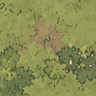
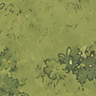
Italia field calmed: the painting's boulders and plants painted out
The open-field ground is cut from art/fields/italia_calm.png, the supplied
meadow with its boulders, small rocks, ferns, dark clumps, clover rosettes,
pale moss and earth patches masked by colour and size thresholds and filled
from the painting's own grass by G'MIC patch-based inpainting
(tools/fieldcalm.py --level strong), then sliced as before. Tufts, tiny
flowers and the tonal mottling stay; nothing large distracts from the
troops. The fill is not deterministic, so the calmed picture ships beside
the source. Docs record the route and the generated routes tried and
rejected (#64).

diff --git a/tools/fieldcalm.py b/tools/fieldcalm.py
@@ -1,0 +1,76 @@
+#!/usr/bin/env python3
+"""Calm a supplied field painting: mask its clutter, fill the mask from the
+painting's own texture, and cut the 6x5 field cells with siegeslice.
+
+    python3 tools/fieldcalm.py <painting.png> <out-dir> <prefix> [--level light|medium|strong] [--fill patchmatch|lama] [--keep-mask mask.png]
+
+Levels (what is repainted):
+  light   grey boulders and small rocks, dark clumps (ferns, dense clover)
+  medium  light + brown earth patches
+  strong  medium + mid-dark leaf clusters and pale yellow-green moss patches
+The mask is colour/size thresholds (OpenCV); --keep-mask writes it out so a
+hand-edited copy can be passed back with --mask. Fill: G'MIC inpaint_matchpatch
+(native resolution) or LaMa on CPU (run at 1024 px). Writes <out-dir>/mask.png,
+<out-dir>/inpainted.png and the cells <out-dir>/cells/<prefix>_<x>_<y>.png.
+Needs: gmic, python3-opencv, python3-numpy (apt); for --fill lama: torch (cpu),
+torchvision, simple-lama-inpainting (pip --user).
+Neither fill is deterministic (patch matching is randomly initialised, LaMa is
+run at 1024 px), so the inpainted painting that shipped is kept beside the
+source; re-running gives an equivalent but not identical field.
+"""
+import sys, os, subprocess, argparse
+import cv2, numpy as np
+
+ap = argparse.ArgumentParser()
+ap.add_argument("painting"); ap.add_argument("out"); ap.add_argument("prefix")
+ap.add_argument("--level", default="medium", choices=["light", "medium", "strong"])
+ap.add_argument("--fill", default="patchmatch", choices=["patchmatch", "lama"])
+ap.add_argument("--mask", help="use this mask instead of building one (white = repaint)")
+ap.add_argument("--dilate", type=int, default=15)
+a = ap.parse_args()
+os.makedirs(a.out + "/cells", exist_ok=True)
+src = cv2.imread(a.painting, cv2.IMREAD_UNCHANGED)
+if src.shape[2] == 3: src = np.dstack([src, np.full(src.shape[:2], 255, np.uint8)])
+bgr, alpha = src[:, :, :3], src[:, :, 3]
+K = lambda n: cv2.getStructuringElement(cv2.MORPH_ELLIPSE, (n, n))
+
+def blobs(mask, min_area):
+    n, lab, stats, _ = cv2.connectedComponentsWithStats(mask.astype(np.uint8), 8); keep = np.zeros_like(mask)
+    for i in range(1, n):
+        if stats[i, cv2.CC_STAT_AREA] >= min_area: keep |= (lab == i)
+    return keep
+
+if a.mask:
+    mask = cv2.imread(a.mask, cv2.IMREAD_GRAYSCALE)
+else:
+    hsv = cv2.cvtColor(bgr, cv2.COLOR_BGR2HSV); H, S, V = [hsv[:, :, i].astype(int) for i in range(3)]
+    content = (alpha > 16) & ~((bgr[:, :, 0] > 235) & (bgr[:, :, 1] > 235) & (bgr[:, :, 2] > 235))
+    rocks = blobs(content & (S < 0.20 * 255) & (V > 0.42 * 255), 120)
+    dark = blobs(content & (V < 0.40 * 255), 120)
+    m = rocks | dark
+    if a.level in ("medium", "strong"):
+        m |= blobs(content & (H >= 8) & (H <= 30) & (S > 0.25 * 255) & (V > 0.35 * 255) & (V < 0.75 * 255), 400)
+    if a.level == "strong":
+        leaf = cv2.morphologyEx((content & (V < 0.50 * 255) & (S > 0.30 * 255)).astype(np.uint8), cv2.MORPH_OPEN, K(7)).astype(bool)
+        moss = cv2.morphologyEx((content & (H >= 28) & (H <= 42) & (S > 0.35 * 255) & (V > 0.60 * 255)).astype(np.uint8), cv2.MORPH_OPEN, K(7)).astype(bool)
+        m |= blobs(leaf, 250) | blobs(moss, 400)
+    mask = cv2.dilate(m.astype(np.uint8) * 255, K(a.dilate)) & (content.astype(np.uint8) * 255)
+cv2.imwrite(a.out + "/mask.png", mask)
+print(f"mask: {(mask > 0).sum()} px repainted ({(mask > 0).sum() / max(1, (alpha > 16).sum()) * 100:.1f}% of the painting)")
+
+if a.fill == "patchmatch":
+    rgb_p = a.out + "/inpainted_rgb.png"
+    r = subprocess.run(["gmic", a.painting, "-channels[0]", "0,2", a.out + "/mask.png", "-inpaint_matchpatch[0]", "[1],0,15,10,7,1", "-keep[0]", "-o", rgb_p], capture_output=True, text=True)
+    if r.returncode: sys.exit("gmic failed: " + r.stderr[-400:])
+    rgb = cv2.imread(rgb_p); out = np.dstack([rgb, alpha])
+else:
+    from PIL import Image
+    from simple_lama_inpainting import SimpleLama
+    S = 1024
+    rgb_s = cv2.resize(cv2.cvtColor(bgr, cv2.COLOR_BGR2RGB), (S, S), interpolation=cv2.INTER_AREA)
+    m_s = cv2.resize(mask, (S, S), interpolation=cv2.INTER_NEAREST)
+    res = np.array(SimpleLama()(Image.fromarray(rgb_s), Image.fromarray(m_s)).convert("RGB"))[:S, :S]
+    out = np.dstack([cv2.cvtColor(res, cv2.COLOR_RGB2BGR), cv2.resize(alpha, (S, S), interpolation=cv2.INTER_AREA)])
+cv2.imwrite(a.out + "/inpainted.png", out)
+r = subprocess.run([sys.executable, "tools/siegeslice.py", a.out + "/inpainted.png", a.out + "/cells", "--field", a.prefix], capture_output=True, text=True)
+print(r.stdout.strip().splitlines()[-1] if r.stdout.strip() else r.stderr[-300:])

diff --git a/docs/ART-PIPELINE.md b/docs/ART-PIPELINE.md
@@ -276,13 +276,25 @@ generated from.
 - **Field grid** (`art/combat/field/<zone>_<x>_<y>.png`, 30 cells at 96) —
   the ground of an open fight, one picture per continent (a zone's
   `field_grid`, REQ-165e). Italia's has come from a supplied 1254 x 1254
-  picture kept at `art/fields/italia.png`, a light meadow painted on white:
-  `tools/siegeslice.py --field` has taken the largest 6:5 rectangle of
-  content centred in it (726 x 605, the white kept out), scaled it to
-  576 x 480 with Lanczos and cut the thirty cells. The ground has been kept
-  lighter and plainer than the troops, which have to read against it. The
-  other three continents have no field picture yet and draw the hero's map
-  tile.
+  picture kept at `art/fields/italia.png`, a light meadow painted on white,
+  calmed first by `tools/fieldcalm.py --level strong` into
+  `art/fields/italia_calm.png`: colour and size thresholds have masked the
+  boulders, small rocks, ferns, dark clumps, clover rosettes, pale moss and
+  brown earth patches, and G'MIC's patch-based inpainting has filled them
+  from the painting's own grass, so the tufts, tiny flowers and tonal
+  mottling stay and nothing large distracts from the troops. That is
+  preparation of a supplied source, not post-processing of generated
+  terrain; the fill is not deterministic, so the calmed picture that shipped
+  is kept beside the source. `tools/siegeslice.py --field` has then taken
+  the largest 6:5 rectangle of content centred in it (726 x 605, the white
+  kept out), scaled it to 576 x 480 with Lanczos and cut the thirty cells.
+  Generating this ground has been tried and rejected (2026-09-27): Retro
+  Diffusion's tile styles have tiled seamlessly but drawn flat game-green,
+  its RD Pro top-down style has drawn the look but stops at 256 and its
+  joins have not blended, and variation tiles and pasted objects have read
+  as squares and stickers; the painting route has been the only one that
+  kept the look. The other three continents have no field picture yet and
+  draw the hero's map tile.
 - **The title screen** (`art/ui/splash_title.png`, 256x164) — the eagle has
   been generated (screen route, no border); the words have been drawn by
   `tools/splashtitle.py` from C059 Bold, gold with dark shading, title above

diff --git a/docs/ART-SPEC.md b/docs/ART-SPEC.md
@@ -79,8 +79,9 @@ The castle battlefield has been the one exception: 36 cells at 32 x 32 in
 open field has been a picture of its own per continent, the largest 6:5
 rectangle of content centred in it scaled to 576 x 480 and cut into 30 cells
 of 96 x 96 in `art/combat/field/` (PACK-FORMAT, "Field grid"); Italia's has
-shipped, from `art/fields/italia.png`, a light meadow so the troops stand
-out on it.
+shipped from `art/fields/italia_calm.png`, the supplied light meadow
+`art/fields/italia.png` with its boulders, ferns, clover and earth patches
+painted out (`tools/fieldcalm.py`), so the troops stand out on it.
 
 These have been one class on purpose: the same troop PNG has been drawn into a
 combat cell, an army-roster row, a location screen and the victory cartoon.

diff --git a/docs/OPENBOUNTY-SPEC.md b/docs/OPENBOUNTY-SPEC.md
@@ -1046,7 +1046,9 @@ flagged (§38).
   has kept the siege grid, and a zone with no grid the ground of REQ-165d.
   `glory-of-rome` has shipped Italia's, thirty 96 px cells cut from the
   largest centred 6:5 rectangle of content in one picture, scaled to
-  576 × 480 (`art/fields/italia.png`, `tools/siegeslice.py --field`);
+  576 × 480 (`art/fields/italia_calm.png`, the supplied painting
+  `art/fields/italia.png` calmed by `tools/fieldcalm.py`, then
+  `tools/siegeslice.py --field`);
   `kings-bounty` has declared none.
 - **REQ-165a.** When `sprites.ui.panel_frame` names a palette colour the
   legacy shell has drawn a frame round every panel slot
